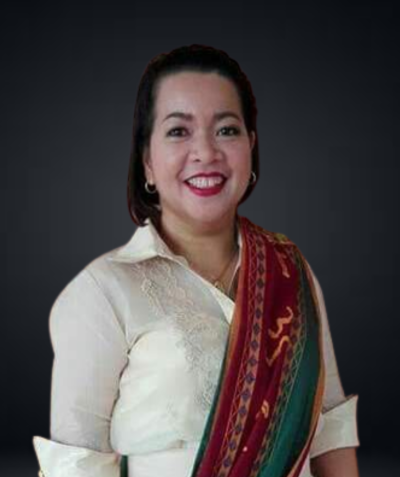
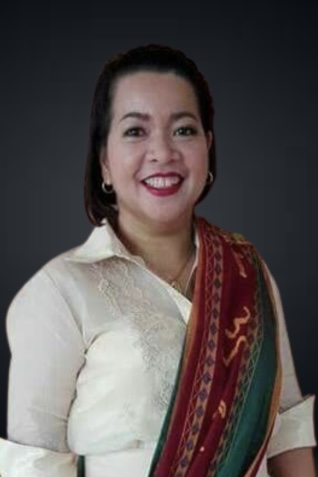
feat: updated photos and add links to profiles

diff --git a/static/test.html b/static/test.html
@@ -17,13 +17,13 @@
             <a-assets>
                 <img id="header" src="assets/UPOU Website Header.png"></img>
                 <a-asset-item id="main" src="assets/Diorama.glb"></a-asset-item>
-                <img id="profile3" src="assets/people/petras.jpg"></img>
-                <img id="profile4" src="assets/people/deterala.jpg"></img>
-                <img id="profile5" src="assets/people/arada.jpg"></img>
-                <img id="profile6" src="assets/people/rfigueroa.jpg"></img>
+                <img id="profile3" src="assets/people/petras.jpeg"></img>
+                <img id="profile4" src="assets/people/deterala.jpeg"></img>
+                <img id="profile5" src="assets/people/arada.jpeg"></img>
+                <img id="profile6" src="assets/people/figueroa.JPG"></img>
                 <img id="profile7" src="assets/people/oruga.png"></img>
-                <img id="profile8" src="assets/people/hawkinson.jpg"></img>
-                <img id="profile9" src="assets/people/taniguchi.jpg"></img>
+                <img id="profile8" src="assets/people/hawkinson.jpeg"></img>
+                <img id="profile9" src="assets/people/taniguchi.jpeg"></img>
             </a-assets>
 
             <!-- Camera Rig -->
@@ -146,6 +146,7 @@
                             </a-plane>
                         </a-entity>
                         <a-text width="1.45" align="center" position="0 -1.05 -0.01" value="Jayson Petras\nCollaborating Researcher"></a-text>
+                        <a-plane material="transparent: true; opacity: 0.01" position="0 -1.05 0" width="0.8" height="0.25" url-on-click-window="url: https://www.linkedin.com/in/jayson-petras-b1222347/"></a-plane>
                     </a-entity>
                     <!-- Profile 4 -->
                     <a-entity position="-3.55 2.2 -5.34">
@@ -163,6 +164,7 @@
                             </a-plane>
                         </a-entity>
                         <a-text width="1.45" align="center" position="0 -1.05 -0.01" value="Sophia Deterala\nProgram Development\nAssociate"></a-text>
+                        <a-plane material="transparent: true; opacity: 0.01" position="0 -1.05 0" width="0.8" height="0.25" url-on-click-window="url: https://www.researchgate.net/profile/Sophia-Deterala"></a-plane>
                     </a-entity>
                     <!-- Profile 5 -->
                     <a-entity position="-1.55 2.2 -5.34">
@@ -180,6 +182,7 @@
                             </a-plane>
                         </a-entity>
                         <a-text width="1.45" align="center" position="0 -1.05 -0.01" value="Blancaflor Arada\nProgram Development\nAssociate"></a-text>
+                        <a-plane material="transparent: true; opacity: 0.01" position="0 -1.05 0" width="0.8" height="0.25" url-on-click-window="url: https://www.linkedin.com/in/blancaflor-arada/"></a-plane>
                     </a-entity>
                     <!-- Profile 6 -->
                     <a-entity position="0.45 2.2 -5.34">
@@ -197,6 +200,7 @@
                             </a-plane>
                         </a-entity>
                         <a-text width="1.45" align="center" position="0 -1.05 -0.01" value="Roberto Figueroa Jr. PhD.\nProgram Director"></a-text>
+                        <a-plane material="transparent: true; opacity: 0.01" position="0 -1.05 0" width="0.8" height="0.25" url-on-click-window="url: https://robertofigueroa.space/"></a-plane>
                     </a-entity>
                     <!-- Profile 7 -->
                     <a-entity position="2.45 2.2 -5.34">
@@ -214,6 +218,7 @@
                             </a-plane>
                         </a-entity>
                         <a-text width="1.45" align="center" position="0 -1.05 -0.01" value="Myra Oruga\nProgram Development\nAssociate"></a-text>
+                        <a-plane material="transparent: true; opacity: 0.01" position="0 -1.05 0" width="0.8" height="0.25" url-on-click-window="url: https://www.linkedin.com/in/dr-myra-oruga-0352a95/"></a-plane>
                     </a-entity>
                     <!-- Profile 8 -->
                     <a-entity position="4.45 2.2 -5.34">
@@ -231,6 +236,7 @@
                             </a-plane>
                         </a-entity>
                         <a-text width="1.45" align="center" position="0 -1.05 -0.01" value="Eric Hawkinson\nCollaborating Researcher"></a-text>
+                        <a-plane material="transparent: true; opacity: 0.01" position="0 -1.05 0" width="0.8" height="0.25" url-on-click-window="url: https://erichawkinson.com/"></a-plane>
                     </a-entity>
                     <!-- Profile 9 -->
                     <a-entity position="6.45 2.2 -5.34">
@@ -248,7 +254,29 @@
                             </a-plane>
                         </a-entity>
                         <a-text width="1.45" align="center" position="0 -1.05 -0.01" value="Hiroshi Taniguchi\nCollaborating Researcher"></a-text>
+                        <a-plane material="transparent: true; opacity: 0.01" position="0 -1.05 0" width="0.8" height="0.25" url-on-click-window="url: https://www.linkedin.com/in/hiroshi-taniguchi-1a8b4a24a/"></a-plane>
                     </a-entity>
+
+                    <!-- Middle Screen -->
+                    <a-text
+                        value="Immersive\nOpen\nPedagogies"
+                        font="kelsonsans"
+                        width="15"
+                        line-height="40"
+                        align="center"
+                        rotation="0 270 0"
+                        position="9.35 2.1 4.5">
+                    </a-text>
+                    <!-- Left Screen -->
+                    <a-text
+                        value="What is Immersive Open Pedagogy?"
+                        font="kelsonsans"
+                        width="2"
+                        align="left"
+                        rotation="0 270 0"
+                        position="9.25 3.3 -2.6"
+                    >
+                    </a-text>
                 </a-entity>
 
             </a-entity>

diff --git a/src/navigation.js b/src/navigation.js
@@ -23,6 +23,28 @@ AFRAME.registerComponent('url-on-click', {
   }
 });
 
+// Opens a new browser window to the URL passed to it
+// Usage: Attach to any entity and pass the url attribute
+AFRAME.registerComponent('url-on-click-window', {
+  schema: {
+    url: { type: 'string', default: '' }
+  },
+
+  init: function () {
+    let el = this.el;
+    let data = this.data;
+
+    el.setAttribute('event-set__click', '_target: #blink; _event: click; animation.property: opacity; animation.to: 1; animation.dur: 1000; animation.easing: easeOutQuart; animation.delay: 300');
+
+    el.addEventListener('click', function () {
+      setTimeout(function () {
+        el.sceneEl.exitVR();
+        window.open(data.url);
+      }, 1000);
+    });
+  }
+});
+
 AFRAME.registerComponent('button-press', {
   init: function () {
     var el = this.el;
